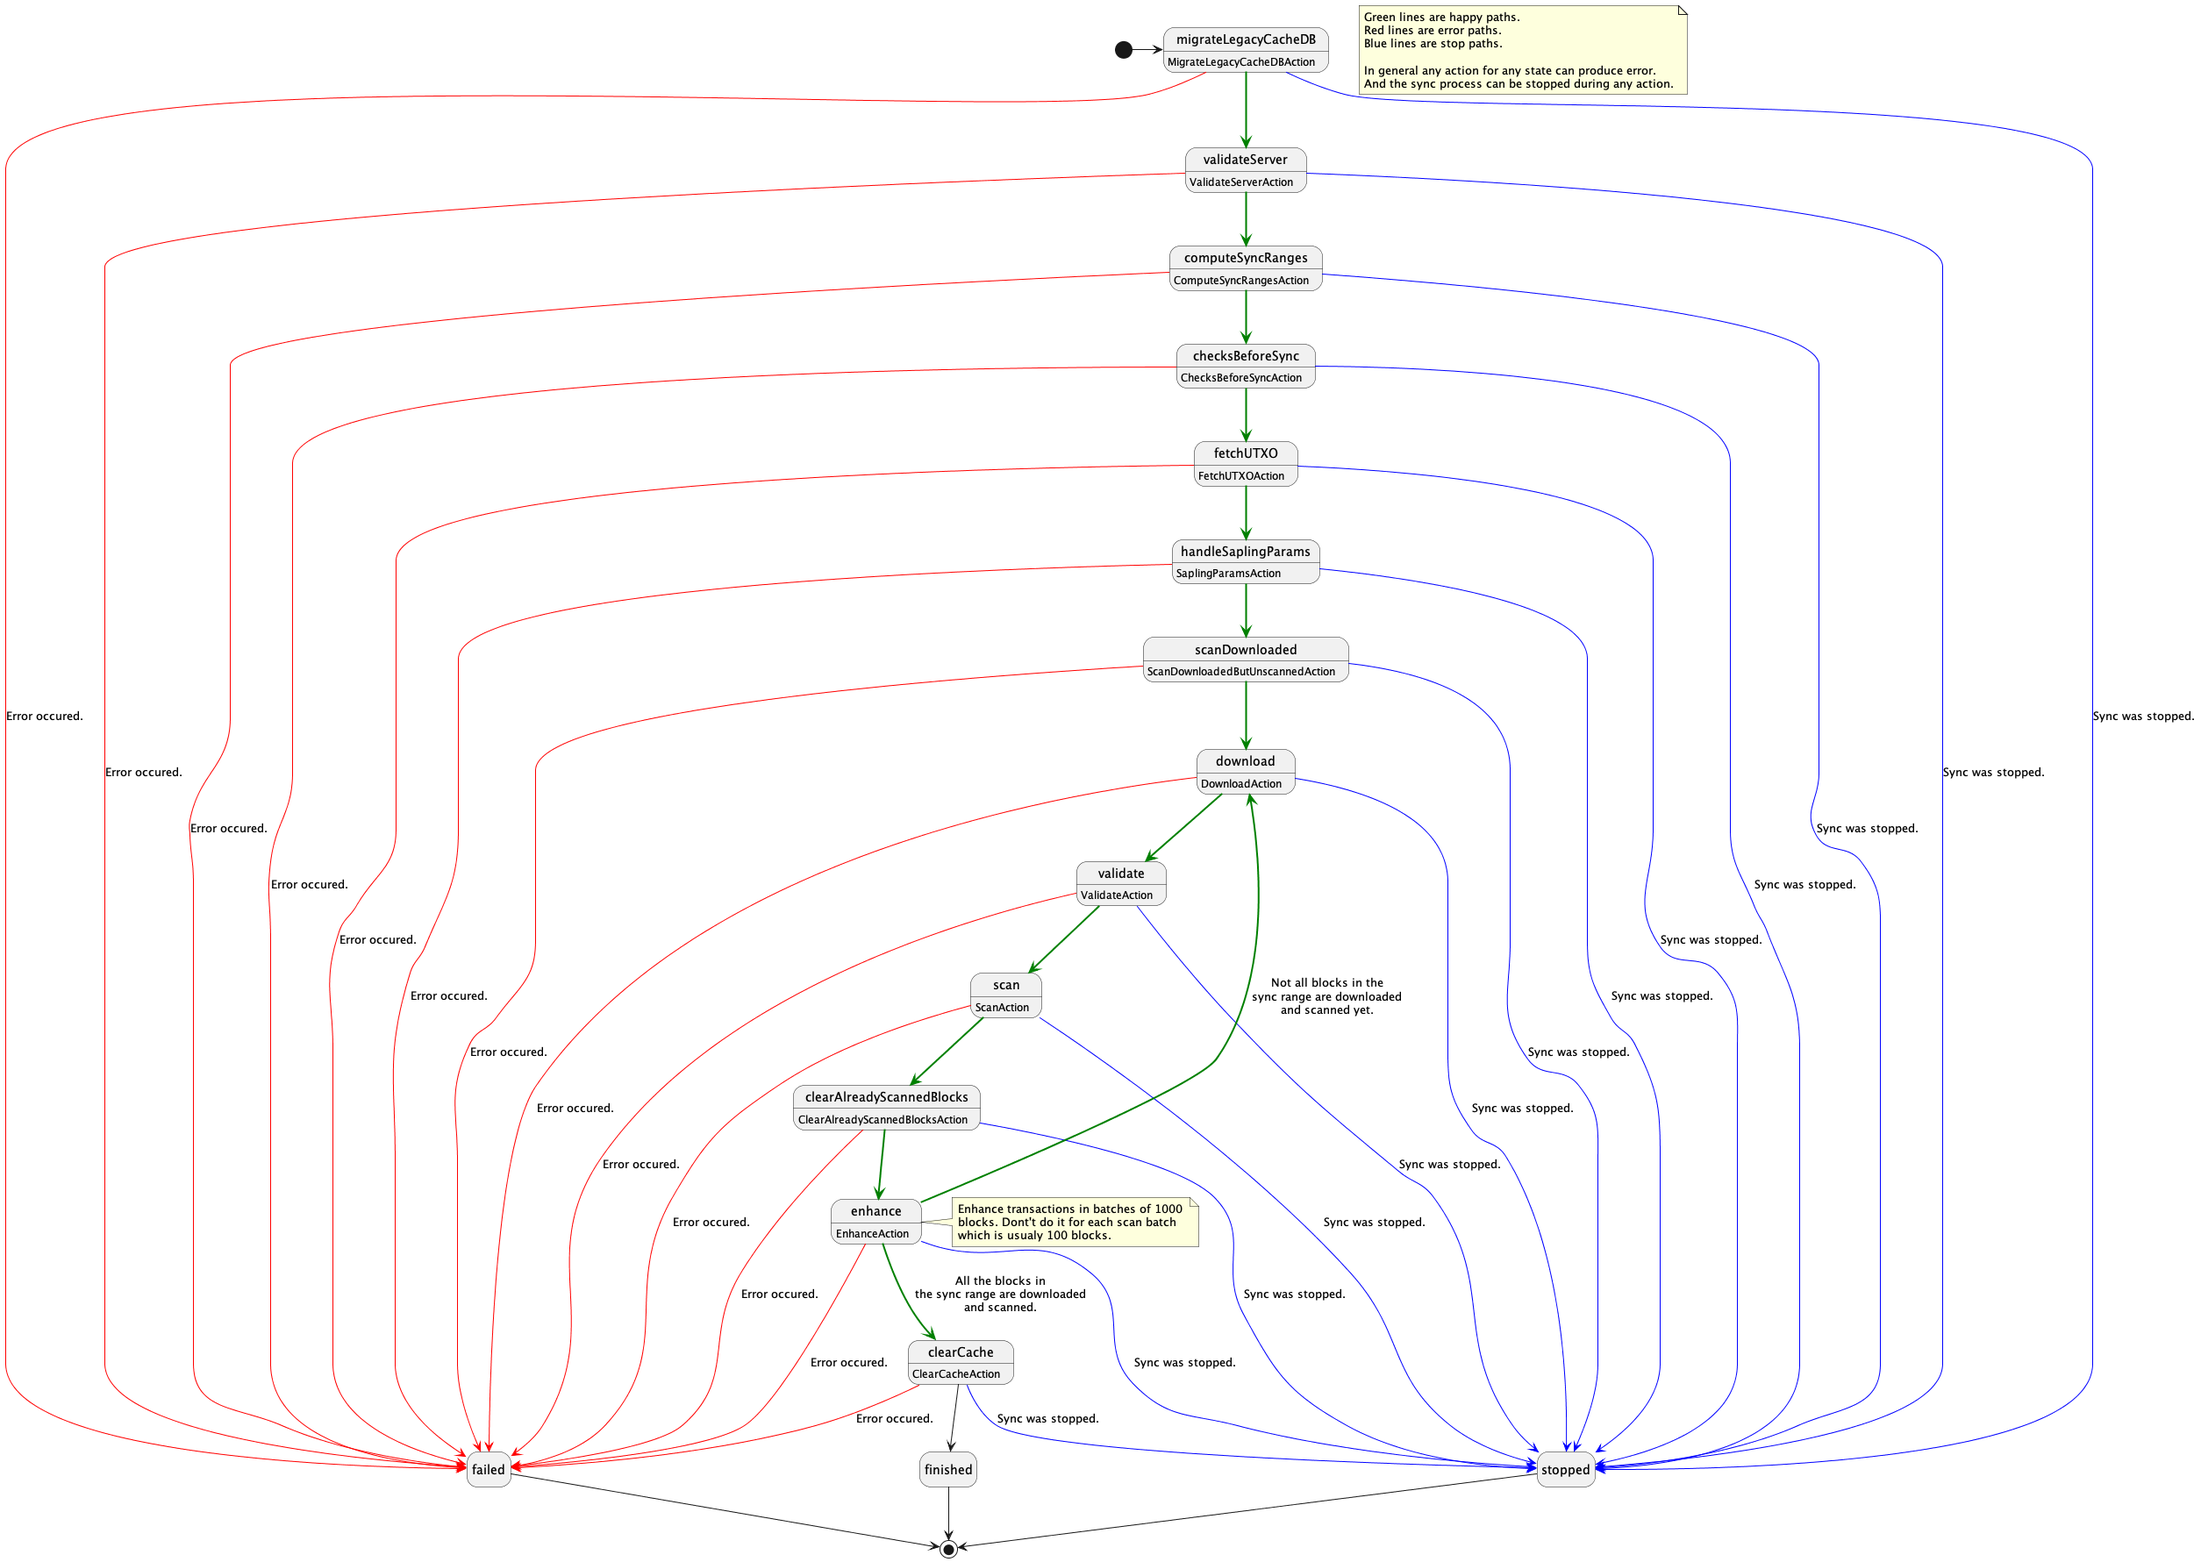
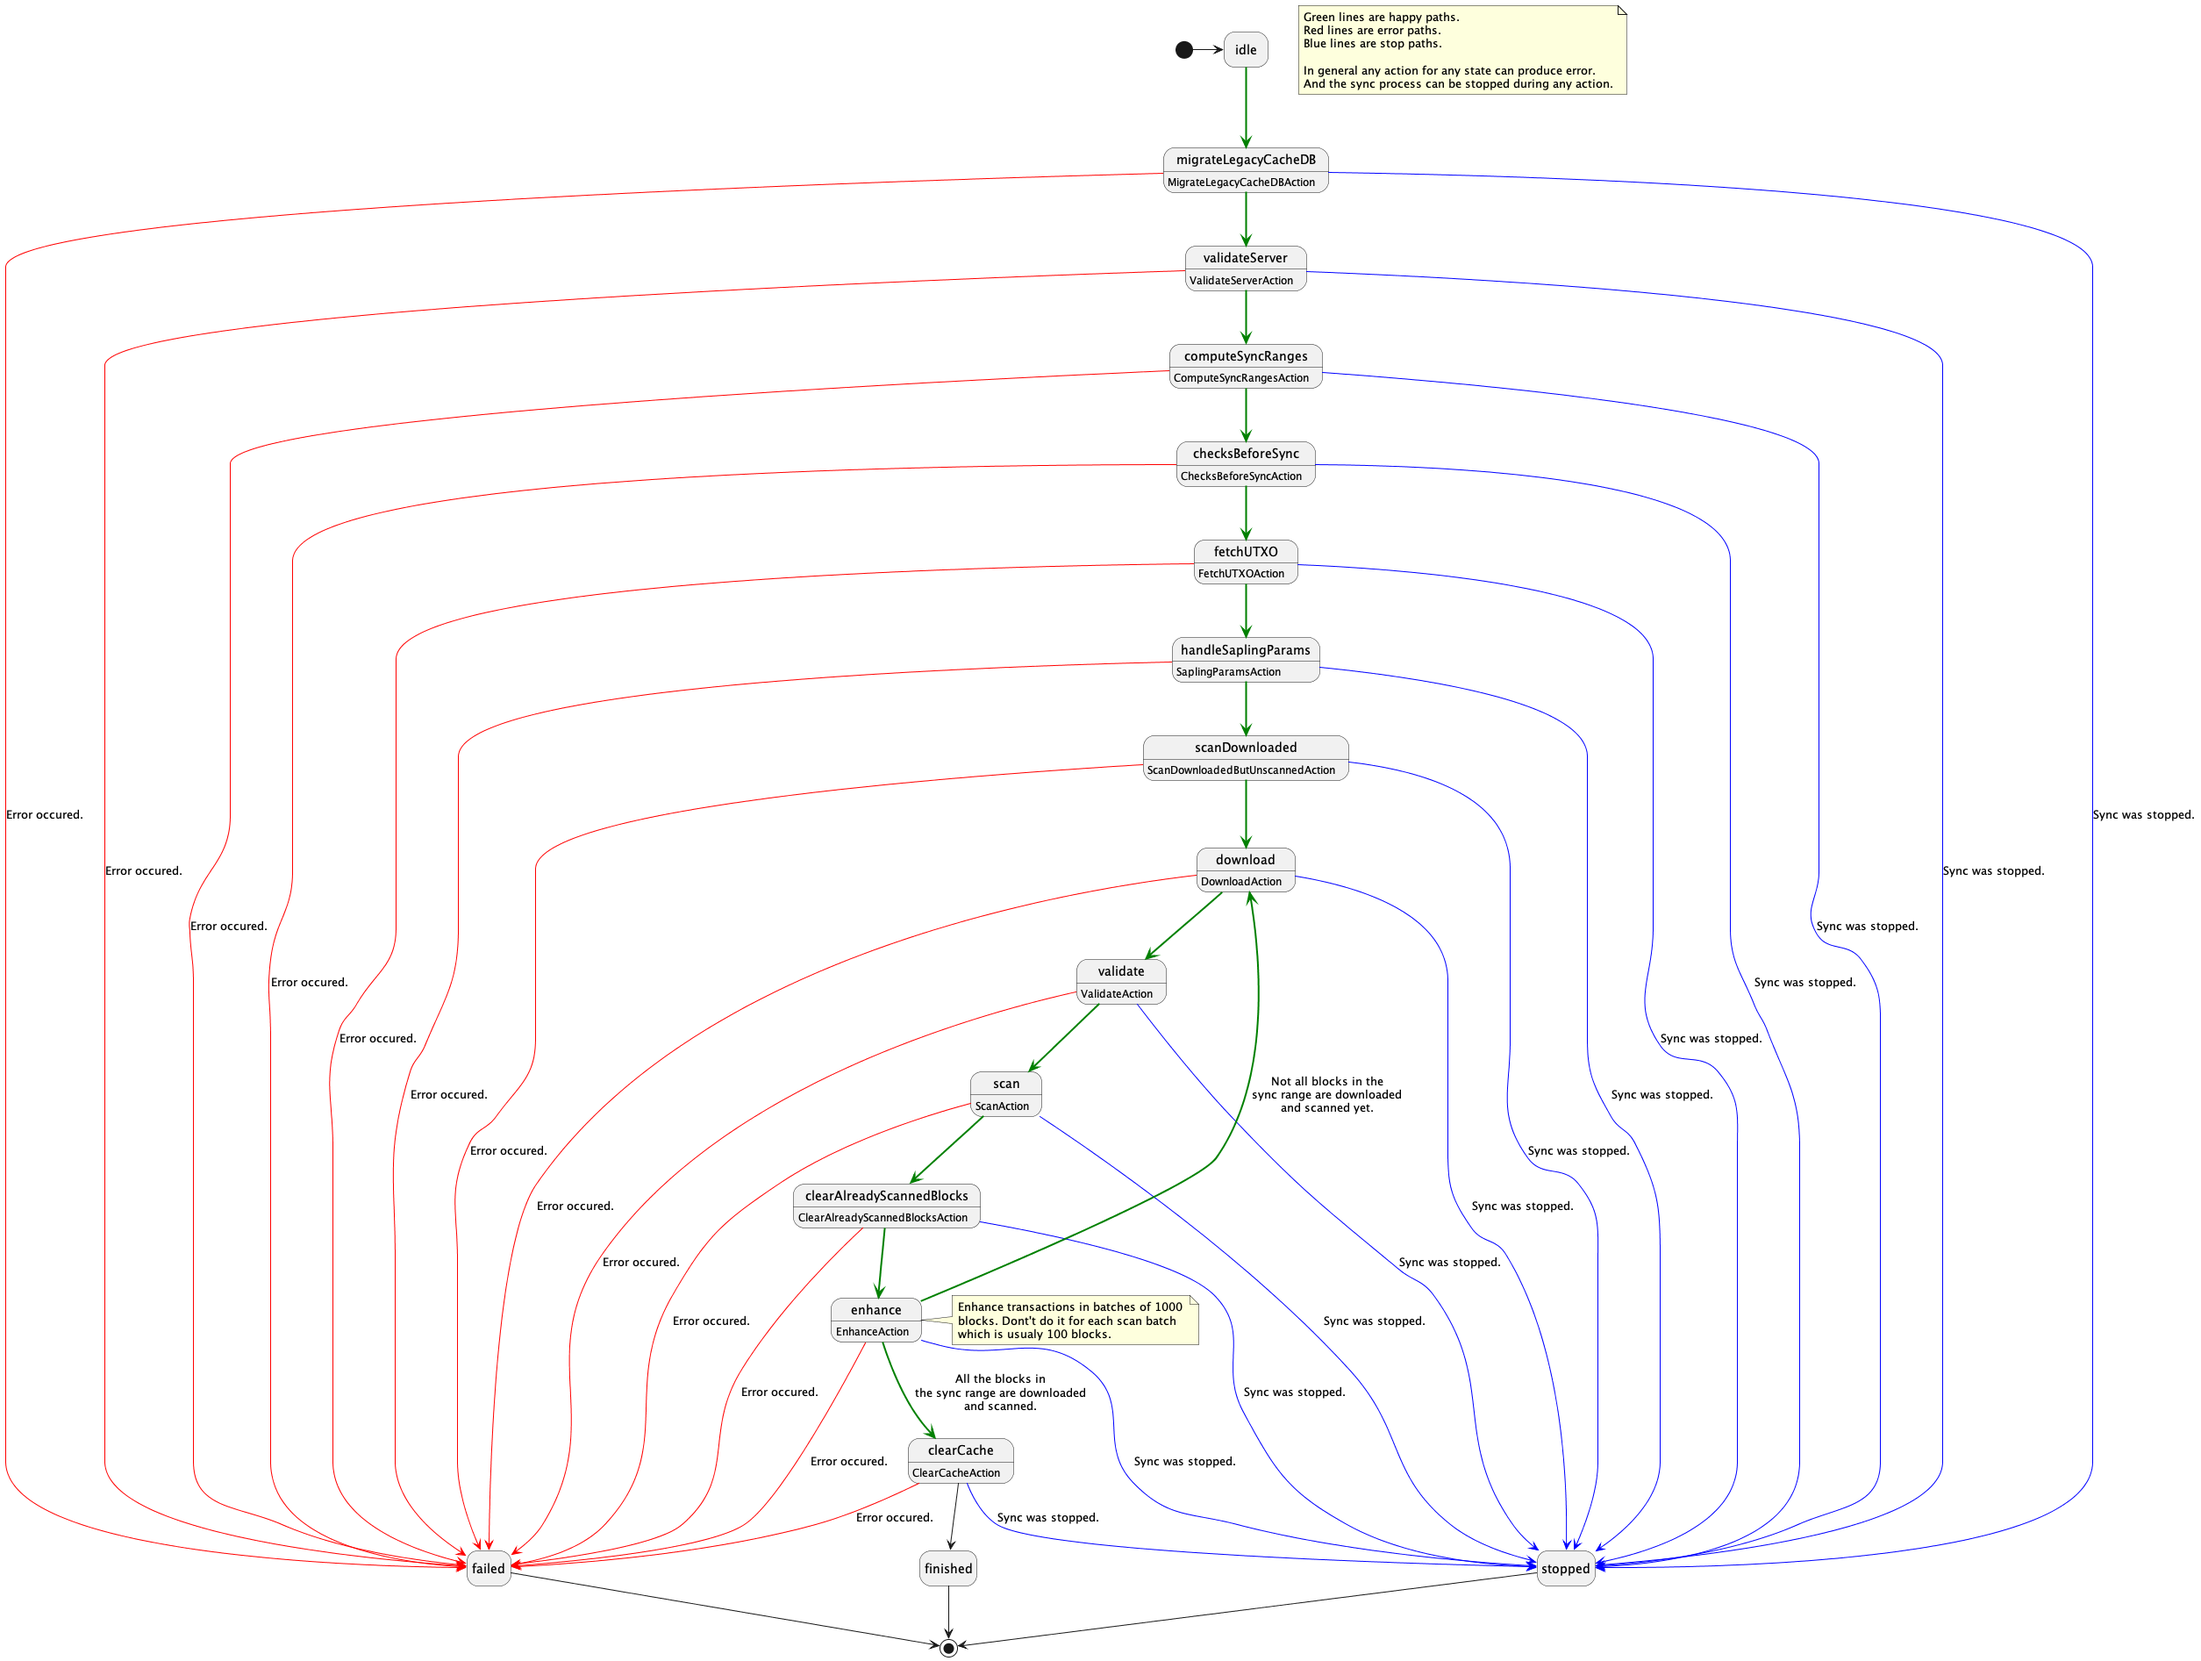
[#700] Add idle state to CBP state machine
This is required so the CBP can detect start of the sync process.

diff --git a/Sources/ZcashLightClientKit/Block/CompactBlockProcessorNG.swift b/Sources/ZcashLightClientKit/Block/CompactBlockProcessorNG.swift
@@ -185,7 +185,7 @@ actor CompactBlockProcessorNG {
     }
 
     // swiftlint:disable:next cyclomatic_complexity
-    static func makeActions(container: DIContainer, config: Configuration) -> [CBPState: Action] {
+    private static func makeActions(container: DIContainer, config: Configuration) -> [CBPState: Action] {
         let actionsDefinition = CBPState.allCases.compactMap { state -> (CBPState, Action)? in
             let action: Action
             switch state {
@@ -215,7 +215,7 @@ actor CompactBlockProcessorNG {
                 action = SaplingParamsAction(container: container)
             case .clearCache:
                 action = ClearCacheAction(container: container)
-            case .finished, .failed, .stopped:
+            case .finished, .failed, .stopped, .idle:
                 return nil
             }
 
@@ -237,25 +237,10 @@ extension CompactBlockProcessorNG {
         }
 
         guard await canStartSync() else {
-            switch await context.state {
-            case .migrateLegacyCacheDB:
-                // max attempts have been reached
-                logger.warn("max retry attempts reached on \(CBPState.initialState) state")
+            if await isIdle() {
+                logger.warn("max retry attempts reached on \(await context.state) state")
                 await send(event: .failed(ZcashError.compactBlockProcessorMaxAttemptsReached(config.retries)))
-            case .finished:
-                // max attempts have been reached
-                logger.warn("max retry attempts reached on synced state, this indicates malfunction")
-                await send(event: .failed(ZcashError.compactBlockProcessorMaxAttemptsReached(config.retries)))
-            case .failed:
-                // max attempts have been reached
-                logger.info("max retry attempts reached with failed state")
-                await send(event: .failed(ZcashError.compactBlockProcessorMaxAttemptsReached(config.retries)))
-            case .stopped:
-                // max attempts have been reached
-                logger.info("max retry attempts reached")
-                await send(event: .failed(ZcashError.compactBlockProcessorMaxAttemptsReached(config.retries)))
-            case .computeSyncRanges, .checksBeforeSync, .scanDownloaded, .download, .validate, .scan, .clearAlreadyScannedBlocks, .enhance,
-                 .fetchUTXO, .handleSaplingParams, .clearCache, .validateServer:
+            } else {
                 logger.debug("Warning: compact block processor was started while busy!!!!")
                 afterSyncHooksManager.insert(hook: .anotherSync)
             }
@@ -316,7 +301,7 @@ extension CompactBlockProcessorNG {
         eventClosures[identifier] = closure
     }
 
-    func send(event: Event) async {
+    private func send(event: Event) async {
         for item in eventClosures {
             await item.value(event)
         }
@@ -329,17 +314,20 @@ extension CompactBlockProcessorNG {
     // This is main loop of the sync process. It simply takes state and try to find action which handles it. If action is found it executes the
     // action. If action is not found then loop finishes. Thanks to this it's super easy to identify start point of sync process and end points
     // of sync process without any side effects.
-    func run() async {
-        // Prepare for sync and set everything to default values.
-        await context.update(state: CBPState.initialState)
-        await syncStarted()
+    private func run() async {
+        resetContext()
 
-        if backoffTimer == nil {
-            await setTimer()
-        }
-
-        // Try to find action for state.
         while true {
+            // Sync is starting when the state is `idle`.
+            if await context.state == .idle {
+                await syncStarted()
+
+                if backoffTimer == nil {
+                    await setTimer()
+                }
+            }
+
+            // Try to find action for state.
             guard let action = actions[await context.state] else {
                 await syncFinished()
                 break
@@ -357,7 +345,7 @@ extension CompactBlockProcessorNG {
                     await syncStopped()
                     if await handleAfterSyncHooks() {
                         // Start sync all over again
-                        await context.update(state: CBPState.initialState)
+                        resetContext()
                     } else {
                         break
                     }
@@ -367,7 +355,7 @@ extension CompactBlockProcessorNG {
                         do {
                             try await validationFailed(at: BlockHeight(height))
                             // Start sync all over again
-                            await context.update(state: CBPState.initialState)
+                            resetContext()
                         } catch {
                             await failure(error)
                             break
@@ -382,29 +370,33 @@ extension CompactBlockProcessorNG {
         }
     }
 
-    func syncStarted() async {
+    private func resetContext() {
+        context = ActionContext(state: .idle)
+    }
+
+    private func syncStarted() async {
         // handle start of the sync process
         await send(event: .startedSyncing)
     }
 
-    func syncFinished() async {
+    private func syncFinished() async {
         syncTask = nil
         // handle finish of the sync
         //        await send(event: .finished(<#T##lastScannedHeight: BlockHeight##BlockHeight#>, <#T##foundBlocks: Bool##Bool#>))
     }
 
-    func update(progress: ActionProgress) async {
+    private func update(progress: ActionProgress) async {
         // handle update of the progree
     }
 
-    func syncStopped() async {
+    private func syncStopped() async {
         syncTask = nil
         await context.update(state: .stopped)
         await send(event: .stopped)
         // await handleAfterSyncHooks()
     }
 
-    func validationFailed(at height: BlockHeight) async throws {
+    private func validationFailed(at height: BlockHeight) async throws {
         // cancel all Tasks
         await rawStop()
 
@@ -425,7 +417,7 @@ extension CompactBlockProcessorNG {
         await send(event: .handledReorg(height, rewindHeight))
     }
 
-    func failure(_ error: Error) async {
+    private func failure(_ error: Error) async {
         await context.update(state: .failed)
 
         logger.error("Fail with error: \(error)")
@@ -467,12 +459,10 @@ extension CompactBlockProcessorNG {
     /// - Note: If this is called while sync is in progress then the sync process is stopped first and then rewind is executed.
     func rewind(context: AfterSyncHooksManager.RewindContext) async {
         logger.debug("Starting rewind")
-        switch await self.context.state {
-        case .stopped, .failed, .finished, .migrateLegacyCacheDB:
+        if await isIdle() {
             logger.debug("Sync doesn't run. Executing rewind.")
             await doRewind(context: context)
-        case .computeSyncRanges, .checksBeforeSync, .download, .validate, .scan, .enhance, .fetchUTXO, .handleSaplingParams, .clearCache,
-                .scanDownloaded, .clearAlreadyScannedBlocks, .validateServer:
+        } else {
             logger.debug("Stopping sync because of rewind")
             afterSyncHooksManager.insert(hook: .rewind(context))
             await stop()
@@ -521,12 +511,10 @@ extension CompactBlockProcessorNG {
 extension CompactBlockProcessorNG {
     func wipe(context: AfterSyncHooksManager.WipeContext) async {
         logger.debug("Starting wipe")
-        switch await self.context.state {
-        case .stopped, .failed, .finished, .migrateLegacyCacheDB:
+        if await isIdle() {
             logger.debug("Sync doesn't run. Executing wipe.")
             await doWipe(context: context)
-        case .computeSyncRanges, .checksBeforeSync, .download, .validate, .scan, .enhance, .fetchUTXO, .handleSaplingParams, .clearCache,
-                .scanDownloaded, .clearAlreadyScannedBlocks, .validateServer:
+        } else {
             logger.debug("Stopping sync because of wipe")
             afterSyncHooksManager.insert(hook: .wipe(context))
             await stop()
@@ -573,8 +561,7 @@ extension CompactBlockProcessorNG {
             block: { [weak self] _ in
                 Task { [weak self] in
                     guard let self else { return }
-                    switch await self.context.state {
-                    case .stopped, .failed, .finished, .validateServer:
+                    if await self.isIdle() {
                         if await self.canStartSync() {
                             self.logger.debug(
                                 """
@@ -588,8 +575,7 @@ extension CompactBlockProcessorNG {
                         } else if await hasRetryAttempt() {
                             await self.failure(ZcashError.compactBlockProcessorMaxAttemptsReached(self.config.retries))
                         }
-                    case .computeSyncRanges, .checksBeforeSync, .download, .validate, .scan, .enhance, .fetchUTXO, .handleSaplingParams, .clearCache,
-                            .scanDownloaded, .clearAlreadyScannedBlocks, .migrateLegacyCacheDB:
+                    } else {
                         await self.latestBlocksDataProvider.updateBlockData()
                     }
                 }
@@ -600,14 +586,29 @@ extension CompactBlockProcessorNG {
         self.backoffTimer = timer
     }
 
-    private func canStartSync() async -> Bool {
+    private func isIdle() async -> Bool {
         switch await context.state {
-        case .stopped, .failed, .finished, .migrateLegacyCacheDB:
-            return hasRetryAttempt()
-        case .computeSyncRanges, .checksBeforeSync, .download, .validate, .scan, .enhance, .fetchUTXO, .handleSaplingParams, .clearCache,
-                .scanDownloaded, .clearAlreadyScannedBlocks, .validateServer:
+        case .stopped, .failed, .finished, .idle:
+            return true
+        case .computeSyncRanges,
+             .checksBeforeSync,
+             .download,
+             .validate,
+             .scan,
+             .enhance,
+             .fetchUTXO,
+             .handleSaplingParams,
+             .clearCache,
+             .scanDownloaded,
+             .clearAlreadyScannedBlocks,
+             .validateServer,
+             .migrateLegacyCacheDB:
             return false
         }
+    }
+
+    private func canStartSync() async -> Bool {
+        return await isIdle() && hasRetryAttempt()
     }
 
     private func hasRetryAttempt() -> Bool {

diff --git a/Sources/ZcashLightClientKit/Block/Actions/Action.swift b/Sources/ZcashLightClientKit/Block/Actions/Action.swift
@@ -22,6 +22,7 @@ actor ActionContext {
 }
 
 enum CBPState: CaseIterable {
+    case idle
     case migrateLegacyCacheDB
     case validateServer
     case computeSyncRanges
@@ -38,10 +39,7 @@ enum CBPState: CaseIterable {
     case finished
     case failed
     case stopped
-
-    static let initialState: CBPState = .migrateLegacyCacheDB
 }
-
 
 // this is replacement for CompactBlockProgress
 enum ActionProgress {

diff --git a/Sources/ZcashLightClientKit/Block/Actions/SaplingParamsAction.swift b/Sources/ZcashLightClientKit/Block/Actions/SaplingParamsAction.swift
@@ -13,7 +13,6 @@ class SaplingParamsAction {
 
 extension SaplingParamsAction: Action {
     func run(with context: ActionContext, didUpdate: @escaping (ActionProgress) async -> Void) async throws -> ActionContext {
-
         // Download files with sapling params.
 
         await context.update(state: .scanDownloaded)

diff --git a/Sources/ZcashLightClientKit/Block/Actions/ScanAction.swift b/Sources/ZcashLightClientKit/Block/Actions/ScanAction.swift
@@ -21,4 +21,3 @@ extension ScanAction: Action {
 
     func stop() async { }
 }
-
